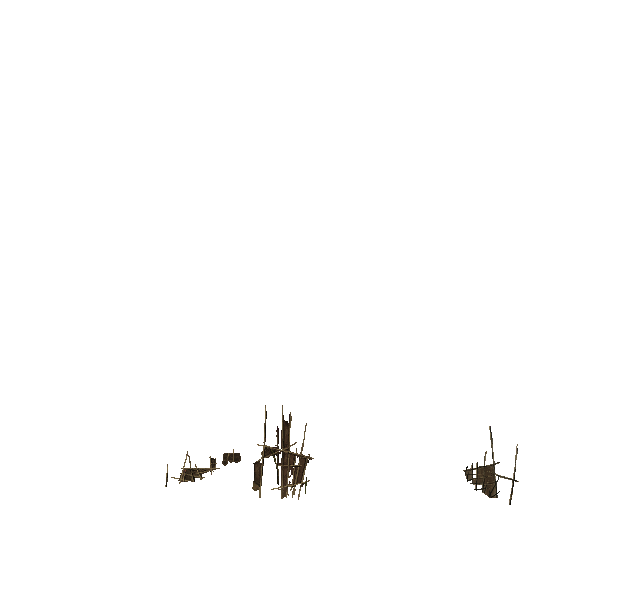
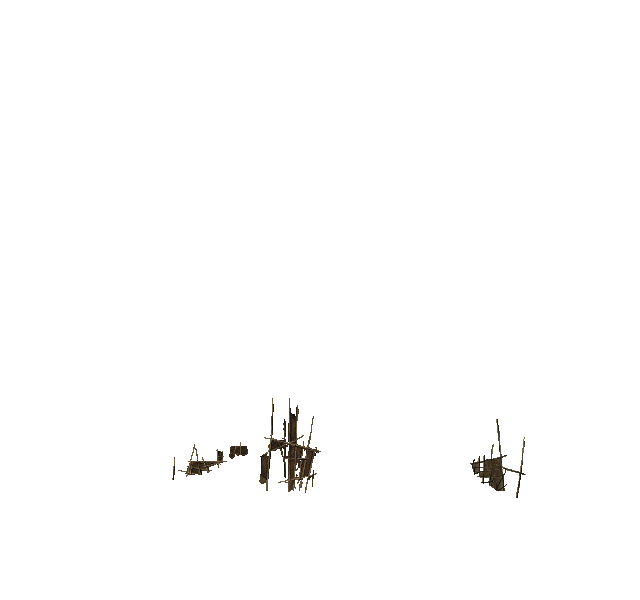
update

Changed region(s): [[0.25, 0.66, 0.5, 0.84], [0.7188, 0.72, 0.8125, 0.84]]

diff --git a/css/main.css b/css/main.css
@@ -1,2 +1,2 @@
 /*! normalize.css v5.0.0 | MIT License | github.com/necolas/normalize.css */
-body,html{height:100%}html{font-family:sans-serif;-ms-text-size-adjust:100%;-webkit-text-size-adjust:100%;box-sizing:border-box;line-height:1.15}body{margin:0;display:-webkit-box;display:-webkit-flex;display:-ms-flexbox;display:flex;-webkit-box-orient:vertical;-webkit-box-direction:normal;-webkit-flex-direction:column;-ms-flex-direction:column;flex-direction:column;min-height:100vh;font-size:16px;line-height:1.5;cursor:url(../img/cursor-sword.png),default}.clans img.clans__town,.clans img.clans__walls,.elves img.elves__town,.empire img.empire__town,.empire img.empire__walls,.legions img.legions__town,article,aside,details,figcaption,figure,footer,header,main,menu,nav,section{display:block}h1{font-size:2em;margin:.67em 0}figure{margin:1em 40px}hr{box-sizing:content-box;height:0;overflow:visible}code,kbd,pre,samp{font-family:monospace,monospace;font-size:1em}a{background-color:transparent;-webkit-text-decoration-skip:objects}a:active,a:hover{outline-width:0}abbr[title]{border-bottom:none;text-decoration:underline dotted}b,strong{font-weight:bolder}dfn{font-style:italic}mark{background-color:#ff0;color:#000}small{font-size:80%}sub,sup{font-size:75%;line-height:0;position:relative;vertical-align:baseline}sub{bottom:-.25em}sup{top:-.5em}audio,canvas,video{display:inline-block}audio:not([controls]){display:none;height:0}img{border-style:none;box-sizing:content-box}svg:not(:root){overflow:hidden}button,input,optgroup,select,textarea{font-family:sans-serif;font-size:100%;line-height:1.15;margin:0}button,input{overflow:visible}button,select{text-transform:none}[type=reset],[type=submit],button,html [type=button]{-webkit-appearance:button}[type=button]::-moz-focus-inner,[type=reset]::-moz-focus-inner,[type=submit]::-moz-focus-inner,button::-moz-focus-inner{border-style:none;padding:0}[type=button]:-moz-focusring,[type=reset]:-moz-focusring,[type=submit]:-moz-focusring,button:-moz-focusring{outline:1px dotted ButtonText}fieldset{border:1px solid silver;margin:0 2px;padding:.35em .625em .75em}legend{color:inherit;display:table;max-width:100%;white-space:normal}progress{display:inline-block;vertical-align:baseline}textarea{overflow:auto}[type=checkbox],[type=radio],legend{box-sizing:border-box;padding:0}[type=number]::-webkit-inner-spin-button,[type=number]::-webkit-outer-spin-button{height:auto}[type=search]{-webkit-appearance:textfield;outline-offset:-2px}[type=search]::-webkit-search-cancel-button,[type=search]::-webkit-search-decoration{-webkit-appearance:none}::-webkit-file-upload-button{-webkit-appearance:button;font:inherit}summary{display:list-item}[hidden],template{display:none}*,:after,:before{box-sizing:inherit}input,select,textarea{border-radius:0;box-shadow:none}input[type=password],input[type=search],input[type=text]{-webkit-appearance:none;-moz-appearance:none;appearance:none}input[type=submit]{cursor:pointer}svg{fill:currentColor}.btn--save{max-width:120px;padding:2px 5px;margin-top:10px;text-align:center}.btn--save-town{position:absolute;bottom:-35px;left:0;cursor:pointer}.btn--save-empire{border:2px solid #000073}.btn--save-empire:active,.btn--save-empire:hover{background-color:#000073;color:#fff}.btn--save-undead{border:2px solid #293010}.btn--save-undead:active,.btn--save-undead:hover{background-color:#293010;color:#fff}.btn--save-elves{border:2px solid #7b8948}.btn--save-elves:active,.btn--save-elves:hover{background-color:#7b8948;color:#fff}.btn--save-clans{border:2px solid #c6c7d6}.btn--save-clans:active,.btn--save-clans:hover{background-color:#c6c7d6;color:#fff}.btn--save-legions{border:2px solid #6b0c08}.btn--save-legions:active,.btn--save-legions:hover{background-color:#6b0c08;color:#fff}.btn:hover{cursor:pointer}.build-container{display:inline-block;vertical-align:top;position:relative;max-width:550px}.build{display:table;margin-right:5px;margin-bottom:5px;cursor:pointer}.build:hover span{-webkit-transition-duration:.1s;transition-duration:.1s}.build span{padding:2px 5px;border:1px solid #000;-webkit-user-select:none;-moz-user-select:none;-ms-user-select:none;user-select:none}.build--empire:hover span{background-color:#000073;color:#fff}.build--undead:hover span{background-color:#293010;color:#fff}.build--elves:hover span{background-color:#7b8948;color:#fff}.build--clans:hover span{background-color:#c6c7d6;color:#fff}.build--legions:hover span{background-color:#6b0c08;color:#fff}.build--clans.is-active span{background:#c6c7d6;color:#fff}.build--empire.is-active span{background:#000073;color:#fff}.build--undead.is-active span{background:#293010;color:#fff}.build--legions.is-active span{background:#6b0c08;color:#fff}.build__or{font-weight:700;margin-right:5px}.build__section{margin-bottom:5px}.build__section-title{display:block;font-weight:700}.clans{display:inline-block;position:relative;width:640px;height:600px}.clans img,.elves img,.empire img,.legions img,.undead img{display:none;position:absolute;top:0;width:640px;height:600px}.clans__brewery{z-index:1}.clans__town{z-index:0}.row{display:-webkit-box;display:-webkit-flex;display:-ms-flexbox;display:flex}.col{display:inline-block;vertical-align:top}.elves,.empire{display:inline-block;position:relative;width:640px;height:600px}.empire__town{z-index:0}.legions{display:inline-block;position:relative;width:640px;height:600px}.legions__town{z-index:0}.main-menu{display:-webkit-box;display:-webkit-flex;display:-ms-flexbox;display:flex;-webkit-box-pack:center;-webkit-justify-content:center;-ms-flex-pack:center;justify-content:center;-webkit-box-align:center;-webkit-align-items:center;-ms-flex-align:center;align-items:center;height:100vh;background-color:#000}.main-menu__in{position:relative;width:800px;height:600px;background:url(../img/main-menu.jpg)}.main-menu__item{height:52px;margin-bottom:7px}.main-menu__link{display:inline-block;width:100%;height:52px;line-height:50px;text-decoration:none;background:url(../img/main-menu-btn.png);color:#000}.main-menu__link:active,.main-menu__link:hover{background-repeat:no-repeat;text-decoration:none;color:#000}.main-menu__link:hover{background:url(../img/main-menu-btn-hover.png)}.main-menu__link:active{background:url(../img/main-menu-btn-active.png)}.main-menu__list{position:absolute;top:10px;right:17px;width:306px;list-style:none;padding:0;margin:0;text-align:center;font-size:24px;text-transform:uppercase}.tab{display:none;padding:20px}.tab.is-active,.undead img.undead__town,.undead img.undead__walls{display:block}.tab-container{display:-webkit-box;display:-webkit-flex;display:-ms-flexbox;display:flex;padding:12px}.tab-content{border:8px solid transparent;border-image:url(../img/border.png) 8}.nav-tab{display:inline-block;font-weight:600;padding:12px 24px;min-width:200px;text-align:center;text-decoration:none;text-transform:uppercase}.nav-tab.is-active,.nav-tab.is-active:hover{background:#fff;box-shadow:0 16px 24px 0 #999;color:#000}.nav-tab--empire,.nav-tab--empire:hover{background-color:#000073;color:#fff}.nav-tab--undead,.nav-tab--undead:hover{background-color:#293010;color:#fff}.nav-tab--elves,.nav-tab--elves:hover{background-color:#7b8948;color:#fff}.nav-tab--clans,.nav-tab--clans:hover{background-color:#c6c7d6;color:#fff}.nav-tab--legions,.nav-tab--legions:hover{background-color:#6b0c08;color:#fff}.undead{display:inline-block;position:relative;width:640px;height:600px}.undead__dragon-cemetery{z-index:2}.undead__evil-monastery,.undead__graveyard{z-index:1}.undead__town{z-index:0}.wrapper{display:-webkit-box;display:-webkit-flex;display:-ms-flexbox;display:flex;-webkit-box-orient:vertical;-webkit-box-direction:normal;-webkit-flex-direction:column;-ms-flex-direction:column;flex-direction:column;-webkit-box-align:center;-webkit-align-items:center;-ms-flex-align:center;align-items:center}@media only all and (max-width:1199px){.build-container{margin-bottom:30px}}@media only all and (max-width:767px){.build-container{font-size:15px}.clans,.elves,.empire,.legions{width:100%;height:500px}.clans img,.elves img,.empire img,.legions img,.undead img{width:100%;height:auto}.tab{padding:10px}.tab-content,.undead{width:100%}.undead{height:500px}.wrapper--town{-webkit-box-orient:vertical;-webkit-box-direction:normal;-webkit-flex-direction:column;-ms-flex-direction:column;flex-direction:column;width:100%}}
+body,html{height:100%}html{font-family:sans-serif;-ms-text-size-adjust:100%;-webkit-text-size-adjust:100%;box-sizing:border-box;line-height:1.15}body{margin:0;display:-webkit-box;display:-webkit-flex;display:-ms-flexbox;display:flex;-webkit-box-orient:vertical;-webkit-box-direction:normal;-webkit-flex-direction:column;-ms-flex-direction:column;flex-direction:column;min-height:100vh;font-size:16px;line-height:1.5;cursor:url(../img/cursor-sword.png),default}.clans img.clans__town,.clans img.clans__walls,.elves img.elves__town,.empire img.empire__town,.empire img.empire__walls,.legions img.legions__town,article,aside,details,figcaption,figure,footer,header,main,menu,nav,section{display:block}h1{font-size:2em;margin:.67em 0}figure{margin:1em 40px}hr{box-sizing:content-box;height:0;overflow:visible}code,kbd,pre,samp{font-family:monospace,monospace;font-size:1em}a{background-color:transparent;-webkit-text-decoration-skip:objects}a:active,a:hover{outline-width:0}abbr[title]{border-bottom:none;text-decoration:underline dotted}b,strong{font-weight:bolder}dfn{font-style:italic}mark{background-color:#ff0;color:#000}small{font-size:80%}sub,sup{font-size:75%;line-height:0;position:relative;vertical-align:baseline}sub{bottom:-.25em}sup{top:-.5em}audio,canvas,video{display:inline-block}audio:not([controls]){display:none;height:0}img{border-style:none;box-sizing:content-box}svg:not(:root){overflow:hidden}button,input,optgroup,select,textarea{font-family:sans-serif;font-size:100%;line-height:1.15;margin:0}button,input{overflow:visible}button,select{text-transform:none}[type=reset],[type=submit],button,html [type=button]{-webkit-appearance:button}[type=button]::-moz-focus-inner,[type=reset]::-moz-focus-inner,[type=submit]::-moz-focus-inner,button::-moz-focus-inner{border-style:none;padding:0}[type=button]:-moz-focusring,[type=reset]:-moz-focusring,[type=submit]:-moz-focusring,button:-moz-focusring{outline:1px dotted ButtonText}fieldset{border:1px solid silver;margin:0 2px;padding:.35em .625em .75em}legend{color:inherit;display:table;max-width:100%;white-space:normal}progress{display:inline-block;vertical-align:baseline}textarea{overflow:auto}[type=checkbox],[type=radio],legend{box-sizing:border-box;padding:0}[type=number]::-webkit-inner-spin-button,[type=number]::-webkit-outer-spin-button{height:auto}[type=search]{-webkit-appearance:textfield;outline-offset:-2px}[type=search]::-webkit-search-cancel-button,[type=search]::-webkit-search-decoration{-webkit-appearance:none}::-webkit-file-upload-button{-webkit-appearance:button;font:inherit}summary{display:list-item}[hidden],template{display:none}*,:after,:before{box-sizing:inherit}input,select,textarea{border-radius:0;box-shadow:none}input[type=password],input[type=search],input[type=text]{-webkit-appearance:none;-moz-appearance:none;appearance:none}input[type=submit]{cursor:pointer}svg{fill:currentColor}.btn--save{max-width:120px;padding:2px 5px;margin-top:10px;text-align:center}.btn--save-town{position:absolute;bottom:-35px;left:0;cursor:pointer}.btn--save-empire{border:2px solid #000073}.btn--save-empire:active,.btn--save-empire:hover{background-color:#000073;color:#fff}.btn--save-undead{border:2px solid #293010}.btn--save-undead:active,.btn--save-undead:hover{background-color:#293010;color:#fff}.btn--save-elves{border:2px solid #7b8948}.btn--save-elves:active,.btn--save-elves:hover{background-color:#7b8948;color:#fff}.btn--save-clans{border:2px solid #c6c7d6}.btn--save-clans:active,.btn--save-clans:hover{background-color:#c6c7d6;color:#fff}.btn--save-legions{border:2px solid #6b0c08}.btn--save-legions:active,.btn--save-legions:hover{background-color:#6b0c08;color:#fff}.btn:hover{cursor:pointer}.build-container{display:inline-block;vertical-align:top;position:relative;max-width:550px}.build{display:table;margin-right:5px;margin-bottom:5px;cursor:pointer}.build:hover span{-webkit-transition-duration:.2s;transition-duration:.2s}.build span{padding:2px 5px;border:1px solid #000;-webkit-user-select:none;-moz-user-select:none;-ms-user-select:none;user-select:none;-webkit-transition-duration:.2s;transition-duration:.2s}.build--empire:hover span{background-color:#000073;color:#fff}.build--undead:hover span{background-color:#293010;color:#fff}.build--elves:hover span{background-color:#7b8948;color:#fff}.build--clans:hover span{background-color:#c6c7d6;color:#fff}.build--legions:hover span{background-color:#6b0c08;color:#fff}.build--clans.is-active span{background:#c6c7d6;color:#fff}.build--empire.is-active span{background:#000073;color:#fff}.build--undead.is-active span{background:#293010;color:#fff}.build--legions.is-active span{background:#6b0c08;color:#fff}.build--elves.is-active span{background:#7B8948;color:#fff}.build__or{font-weight:700;margin-right:5px}.build__section{margin-bottom:5px}.build__section-title{display:block;font-weight:700}.clans{display:inline-block;position:relative;width:640px;height:600px}.clans img,.elves img,.empire img,.legions img,.undead img{display:none;position:absolute;top:0;width:640px;height:600px}.clans__brewery{z-index:1}.clans__town{z-index:0}.row{display:-webkit-box;display:-webkit-flex;display:-ms-flexbox;display:flex}.col{display:inline-block;vertical-align:top}.elves,.empire{display:inline-block;position:relative;width:640px;height:600px}.empire__town{z-index:0}.legions{display:inline-block;position:relative;width:640px;height:600px}.legions__town{z-index:0}.main-menu{display:-webkit-box;display:-webkit-flex;display:-ms-flexbox;display:flex;-webkit-box-pack:center;-webkit-justify-content:center;-ms-flex-pack:center;justify-content:center;-webkit-box-align:center;-webkit-align-items:center;-ms-flex-align:center;align-items:center;height:100vh;background-color:#000}.main-menu__in{position:relative;width:800px;height:600px;background:url(../img/main-menu.jpg)}.main-menu__item{height:52px;margin-bottom:7px}.main-menu__link{display:inline-block;width:100%;height:52px;line-height:50px;text-decoration:none;background:url(../img/main-menu-btn.png);color:#000}.main-menu__link:active,.main-menu__link:hover{background-repeat:no-repeat;text-decoration:none;color:#000}.main-menu__link:hover{background:url(../img/main-menu-btn-hover.png)}.main-menu__link:active{background:url(../img/main-menu-btn-active.png)}.main-menu__list{position:absolute;top:10px;right:17px;width:306px;list-style:none;padding:0;margin:0;text-align:center;font-size:24px;text-transform:uppercase}.tab{display:none;padding:20px}.tab.is-active,.undead img.undead__town,.undead img.undead__walls{display:block}.tab-container{display:-webkit-box;display:-webkit-flex;display:-ms-flexbox;display:flex;padding:12px}.tab-content{border:8px solid transparent;border-image:url(../img/border.png) 8}.nav-tab{display:inline-block;font-weight:600;padding:12px 24px;min-width:200px;text-align:center;text-decoration:none;text-transform:uppercase}.nav-tab.is-active,.nav-tab.is-active:hover{background:#fff;box-shadow:0 16px 24px 0 #999;color:#000}.nav-tab--empire,.nav-tab--empire:hover{background-color:#000073;color:#fff}.nav-tab--undead,.nav-tab--undead:hover{background-color:#293010;color:#fff}.nav-tab--elves,.nav-tab--elves:hover{background-color:#7b8948;color:#fff}.nav-tab--clans,.nav-tab--clans:hover{background-color:#c6c7d6;color:#fff}.nav-tab--legions,.nav-tab--legions:hover{background-color:#6b0c08;color:#fff}.undead{display:inline-block;position:relative;width:640px;height:600px}.undead__dragon-cemetery{z-index:2}.undead__evil-monastery,.undead__graveyard{z-index:1}.undead__town{z-index:0}.wrapper{display:-webkit-box;display:-webkit-flex;display:-ms-flexbox;display:flex;-webkit-box-orient:vertical;-webkit-box-direction:normal;-webkit-flex-direction:column;-ms-flex-direction:column;flex-direction:column;-webkit-box-align:center;-webkit-align-items:center;-ms-flex-align:center;align-items:center}@media only all and (max-width:1199px){.build-container{margin-bottom:30px}}@media only all and (max-width:767px){.build-container{font-size:15px}.clans,.elves,.empire,.legions{width:100%;height:500px}.clans img,.elves img,.empire img,.legions img,.undead img{width:100%;height:auto}.tab{padding:10px}.tab-content,.undead{width:100%}.undead{height:500px}.wrapper--town{-webkit-box-orient:vertical;-webkit-box-direction:normal;-webkit-flex-direction:column;-ms-flex-direction:column;flex-direction:column;width:100%}}

diff --git a/towns.html b/towns.html
@@ -492,7 +492,7 @@
                         <img data-src="img/elven-alliance/elves-elementarium.gif" alt="" title="" class="lazyload elves__elementarium" />
                         <img data-src="img/elven-alliance/elves-hovel.gif" alt="" title="" class="lazyload elves__hovel" />
                         <img data-src="img/elven-alliance/elves-skinners-hutch.gif" alt="" title="" class="lazyload elves__skinners-hutch" />
-                        <img data-src="img/elven-alliance/elves-lodge.gif" alt="" title="" class="lazyload elves__lodge" />
+                        <img data-src="img/elven-alliance/elves-lodge.png" alt="" title="" class="lazyload elves__lodge" />
                         <img data-src="img/elven-alliance/elves-hideout.png" alt="" title="" class="lazyload elves__hideout" />
                         <img data-src="img/elven-alliance/elves-lookout.png" alt="" title="" class="lazyload elves__lookout" />
                         <img data-src="img/elven-alliance/elves-harborage.gif" alt="" title="" class="lazyload elves__harborage" />
@@ -621,6 +621,14 @@
                                 </div>
                             </div>
                         </div>
+                        <div class="build__section">
+                            <span class="build__section-title">Background</span>
+                            <div class="row">
+                                <div class="build clans__windmill build--clans">
+                                    <span>Windmill</span>
+                                </div>
+                            </div>
+                        </div>
                         <div class="btn btn--save btn--save-clans">Save Picture</div>
                     </div>
                     <div class="clans">
@@ -649,6 +657,7 @@
                         <img data-src="img/mountain-clans/clans-snow-den.png" width="640" height="600" alt="" title="" class="lazyload clans__snow-den" />
                         <img data-src="img/mountain-clans/clans-wisdom-garden.png" width="640" height="600" alt="" title="" class="lazyload clans__wisdom-garden" />
                         <img data-src="img/mountain-clans/clans-temple.png" width="640" height="600" alt="" title="" class="lazyload clans__temple" />
+                        <img data-src="img/mountain-clans/clans-windmill.gif" width="640" height="600" alt="" title="" class="lazyload clans__windmill" />
                     </div>
                 </div>
                 <div id="legions" class="tab">

diff --git a/src/scss/partials/_modules.scss b/src/scss/partials/_modules.scss
@@ -130,27 +130,27 @@
   }
 
   &--clans.is-active span {
-    background: $c-clans-bg;
+    background-color: $c-clans-bg;
     color: $c-clans-text;
   }
 
   &--empire.is-active span {
-    background: $c-empire-bg;
+    background-color: $c-empire-bg;
     color: $c-empire-text;
   }
 
   &--undead.is-active span {
-    background: $c-undead-bg;
+    background-color: $c-undead-bg;
     color: $c-undead-text;
   }
 
   &--legions.is-active span {
-    background: $c-legions-bg;
+    background-color: $c-legions-bg;
     color: $c-legions-text;
   }
 
   &--elves.is-active span {
-    background: $c-elves-bg;
+    background-color: $c-elves-bg;
     color: $c-elves-text;
   }
 

diff --git a/src/scss/modules/build.scss b/src/scss/modules/build.scss
@@ -66,27 +66,27 @@
   }
 
   &--clans.is-active span {
-    background: $c-clans-bg;
+    background-color: $c-clans-bg;
     color: $c-clans-text;
   }
 
   &--empire.is-active span {
-    background: $c-empire-bg;
+    background-color: $c-empire-bg;
     color: $c-empire-text;
   }
 
   &--undead.is-active span {
-    background: $c-undead-bg;
+    background-color: $c-undead-bg;
     color: $c-undead-text;
   }
 
   &--legions.is-active span {
-    background: $c-legions-bg;
+    background-color: $c-legions-bg;
     color: $c-legions-text;
   }
 
   &--elves.is-active span {
-    background: $c-elves-bg;
+    background-color: $c-elves-bg;
     color: $c-elves-text;
   }
 
